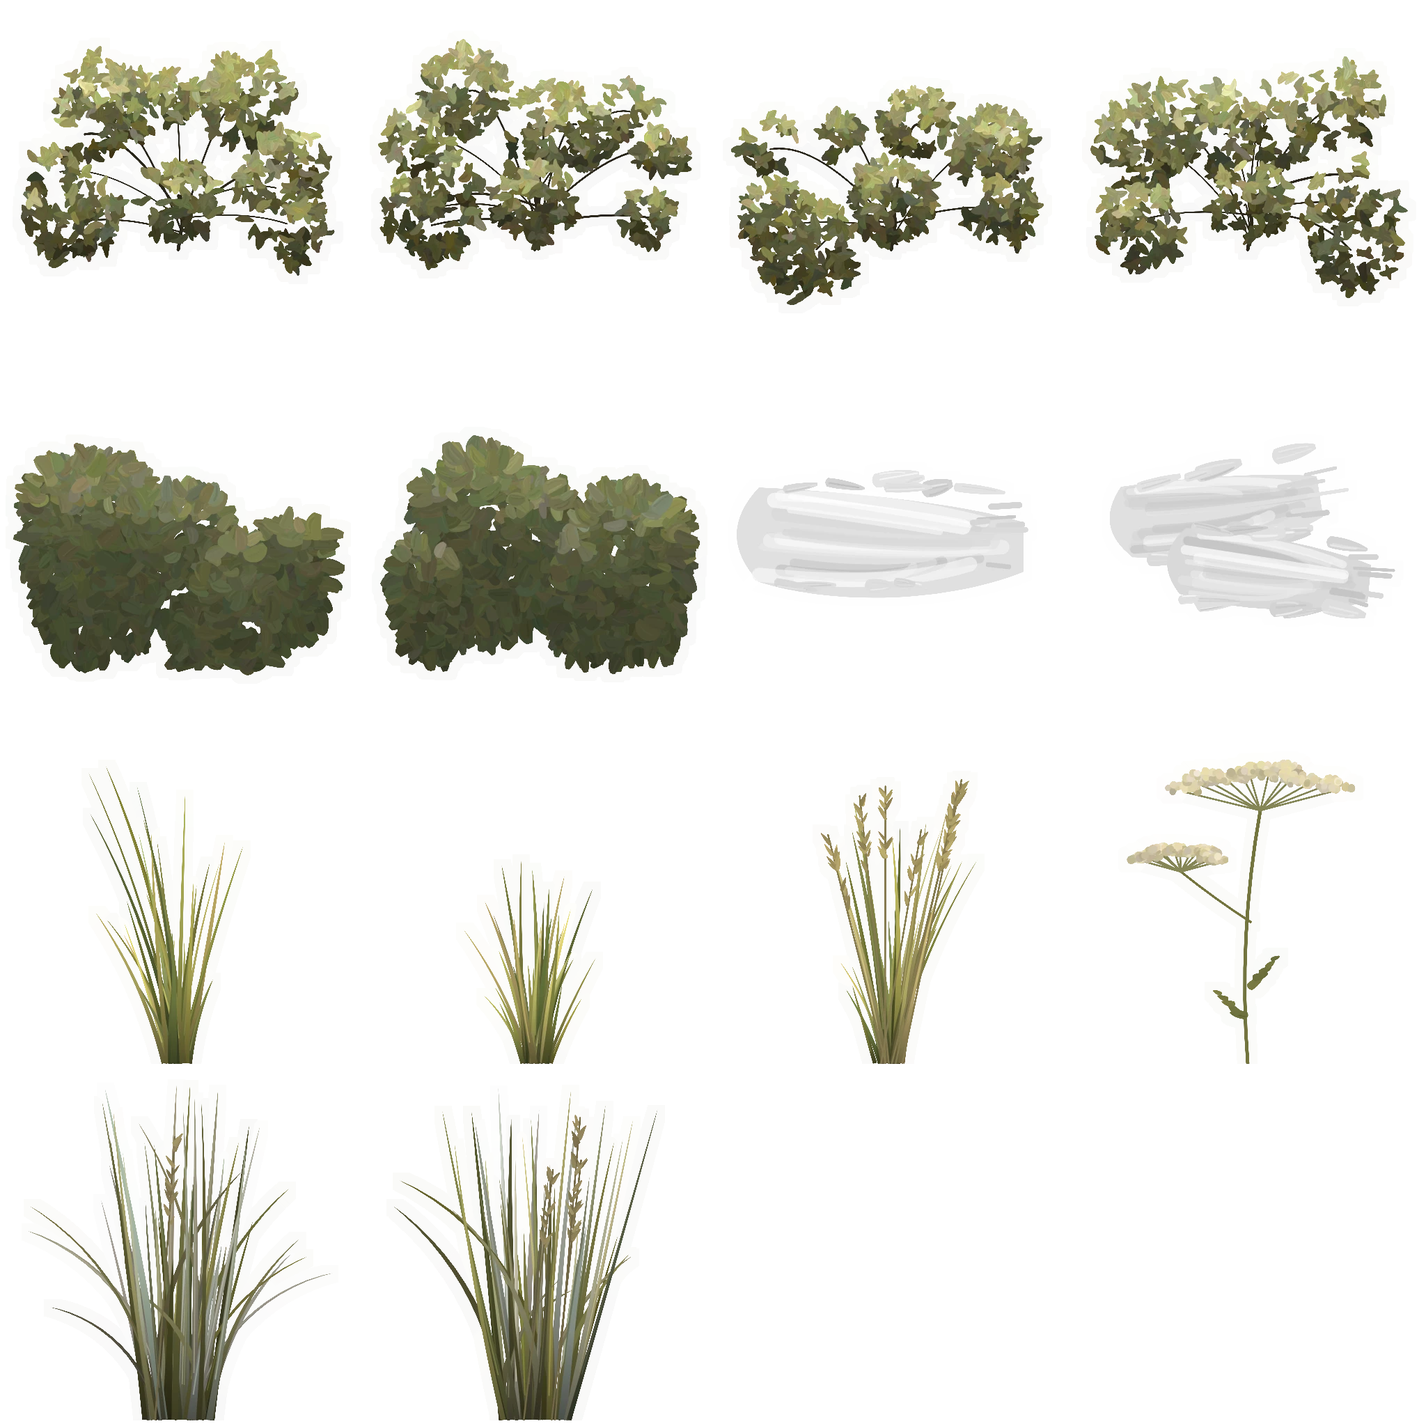
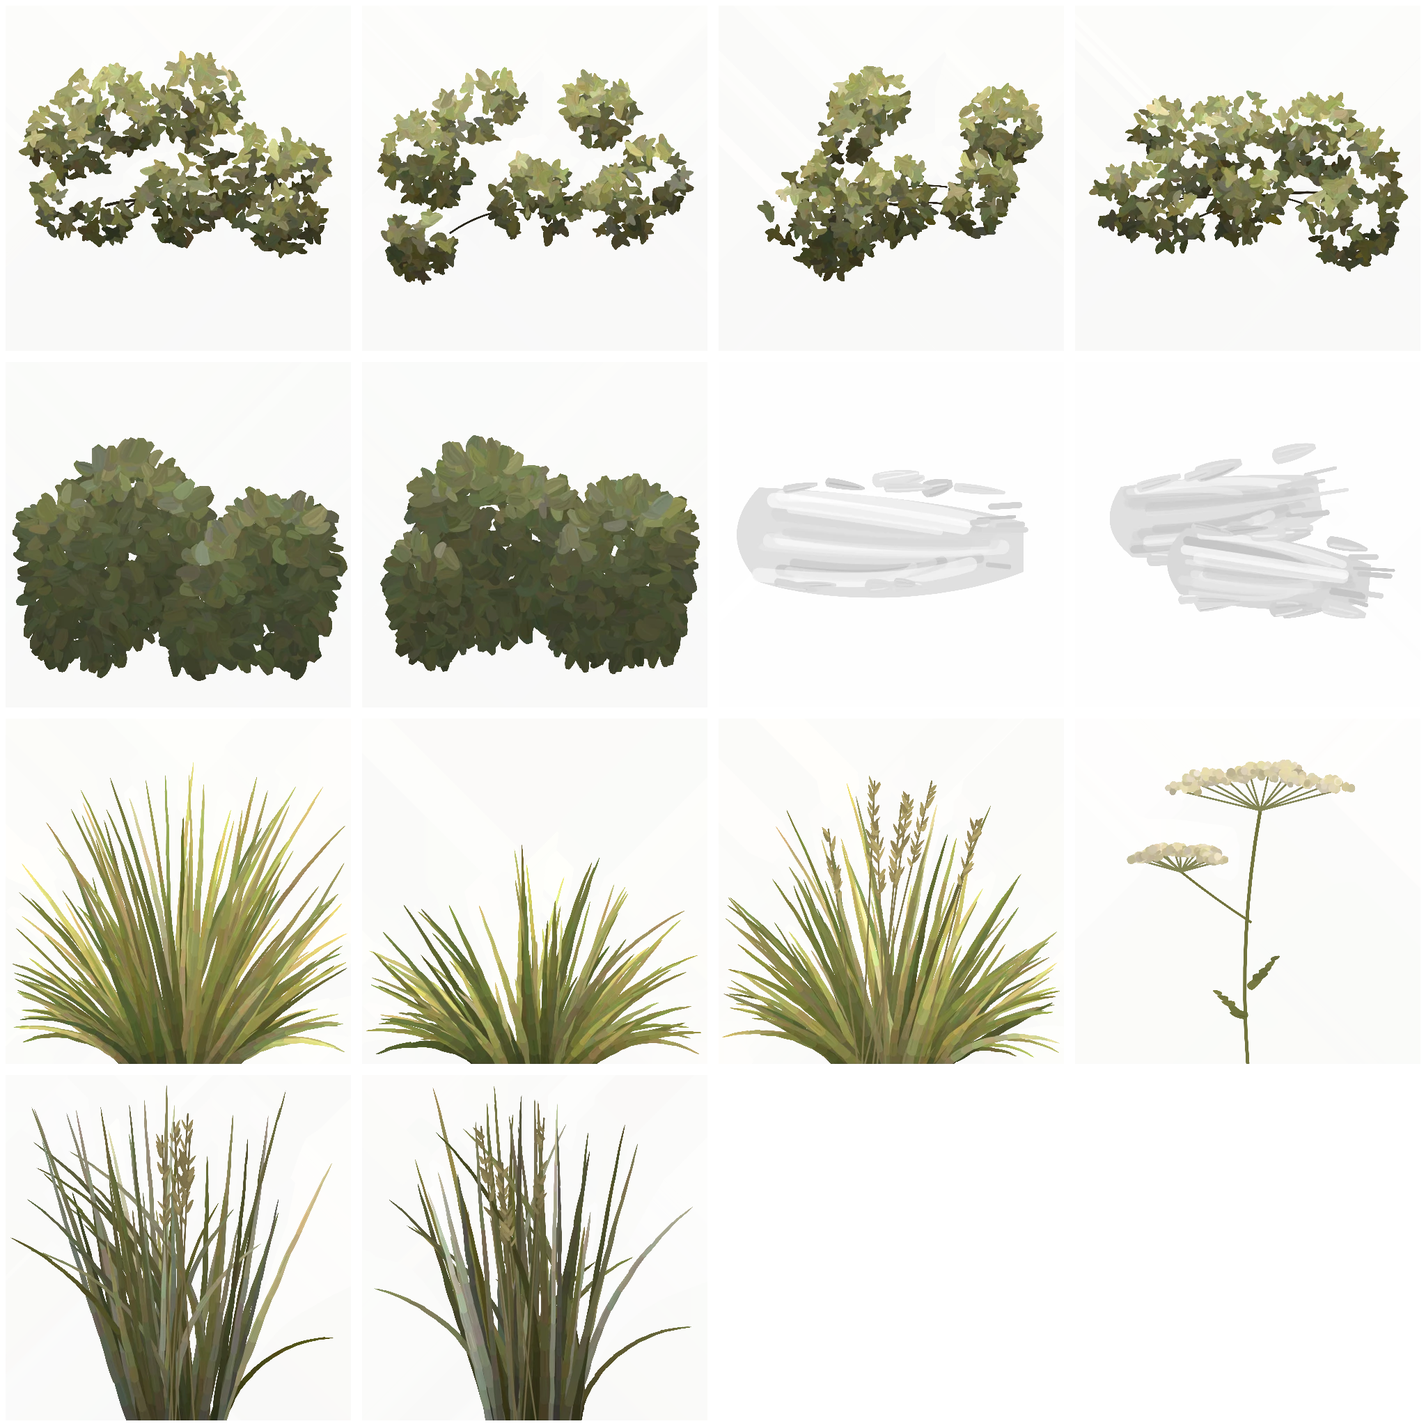
Paint grass and reed blades as brush strokes, and tidy the card atlas
Blades are now overlapping tapered strokes along a spine, with broken
colour and outline; grass tufts use most of their cells. Oak twigs start
inside the spray and stay out of its lit top, with no stub below. Card
colour is carried across each cell's whole transparent interior. The
plates README and the hills draft prompt agree on the hills wrap, the
README's failure wording is split from success, and the contact sheet
takes panel names from the slot table.

diff --git a/scripts/space-painter/painter.js b/scripts/space-painter/painter.js
@@ -238,30 +238,28 @@ const PAINTERS = {
 
 // ── Brush cards: alpha-tested shapes, one per 512 px cell, painted in cell pixels (scaled by `k` if the cell size changes). ──
 
-const MARGIN = 8, FRINGE = 12, FRINGE_ALPHA = 8; // clear border per cell; colour band (px, 8-bit alpha) carried under each edge
+const MARGIN = 8, FRINGE_ALPHA = 8; // clear border per cell; 8-bit alpha of the colour carried under the transparent interior
 
-// A blade from (x, y) rising `lean` radians off upright and turning by `curl` radians over its length, tapering to a point,
-// darker at its foot. Returns false (drawing nothing) if any part would leave the cell's clear margin.
-function blade(g, x, y, {len, lean, curl = 0, width, color, rib = false, steps = 14}, n) {
-  const left = [], right = []; let a = lean, px = x, py = y;
-  for (let q = 0; q <= steps; q++) {
-    const w = width / 2 * (1 - q / steps) ** .7, nx = Math.cos(a), ny = Math.sin(a);
-    left.push([px - nx * w, py - ny * w]); right.push([px + nx * w, py + ny * w]);
-    px += Math.sin(a) * len / steps; py -= Math.cos(a) * len / steps; a += curl / steps;
-  }
-  const pts = [...left, ...right.reverse()];
-  if (pts.some(([u, v]) => u < MARGIN + 4 || u > n - MARGIN - 4 || v < MARGIN + 4 || v > n - MARGIN)) return false;
-  const tip = left[steps], grad = g.createLinearGradient(x, y, tip[0], tip[1]);
-  grad.addColorStop(0, css(mul(color, .58))); grad.addColorStop(.45, css(color)); grad.addColorStop(1, css(mul(color, 1.16)));
-  g.beginPath(); pts.forEach(([u, v], q) => q ? g.lineTo(u, v) : g.moveTo(u, v)); g.closePath(); g.fillStyle = grad; g.fill();
-  if (rib) { // a lighter stroke down one side, where the blade catches the light
-    g.strokeStyle = css(mul(color, 1.25), .7); g.lineWidth = Math.max(1, width * .18); g.beginPath();
-    left.slice(2, steps - 1).forEach(([u, v], q) => { const [u2, v2] = right[right.length - 3 - q]; q ? g.lineTo(u * .65 + u2 * .35, v * .65 + v2 * .35) : g.moveTo(u * .65 + u2 * .35, v * .65 + v2 * .35); }); g.stroke();
+// A blade from (x, y) rising `lean` radians off upright and turning by `curl` radians over its length, tapering to a point. It is
+// laid as overlapping tapered brush strokes along its spine, darker at the foot and lighter toward the tip, each stroke a little
+// off in colour, so the outline breaks where one stroke hands over to the next. Returns false (drawing nothing) if any part would
+// leave the cell's clear margin.
+function blade(g, x, y, {len, lean, curl = 0, width, color, rib = false}, n, r) {
+  const steps = Math.max(4, Math.min(12, Math.round(len / (width * 1.6)))), spine = []; let a = lean, px = x, py = y;
+  for (let q = 0; q <= steps; q++) { spine.push([px, py, a]); px += Math.sin(a) * len / steps; py -= Math.cos(a) * len / steps; a += curl / steps; }
+  const half = q => width / 2 * (1 - q / steps) ** .7 + 1;
+  if (spine.some(([u, v], q) => u - half(q) < MARGIN + 4 || u + half(q) > n - MARGIN - 4 || v - half(q) < MARGIN + 4 || v > n - MARGIN)) return false;
+  const seg = len / steps;
+  for (let q = 0; q < steps; q++) {
+    const [u0, v0, a0] = spine[q], [u1, v1] = spine[q + 1], t = (q + .5) / steps, last = q === steps - 1;
+    const shade = .62 + .56 * t ** .8, w = width * (1 - t) ** .7 * (1.05 + r() * .2) + 1.5;
+    dab(g, (u0 + u1) / 2, (v0 + v1) / 2, {angle: a0 - Math.PI / 2 + (r() - .5) * .06, len: seg * (last ? 1.15 : 1.7), width: Math.max(2, w), color: jitter(r, mul(color, shade), .12),
+      alpha: 1, bristles: 3, bend: (r() - .5) * .25, taper: last ? 1 : .55, ridge: rib && t > .3 ? .45 : 0}, r);
   }
   return true;
 }
 // Keeps trying a blade, a little shorter each time, until it fits inside the cell.
-function fitBlade(g, x, y, s, n) { for (let t = 0; t < 12 && !blade(g, x, y, s, n); t++) s = {...s, len: s.len * .88}; }
+function fitBlade(g, x, y, s, n, r) { for (let t = 0; t < 12 && !blade(g, x, y, s, n, r); t++) s = {...s, len: s.len * .88}; }
 
 // Leaf masses (oak and woods): strokes scattered inside a union of lobes, minus small holes, lit from above both across the whole
 // clump and on each lobe. With `rosette`, two to five leaves radiate unevenly from each point like the oak's sprays; otherwise each
@@ -295,30 +293,34 @@ function leafMass(g, r, n, {lobes, holes = [], floor = n, count, leaf, rosette, 
 function oakLobes(r, n) {
   const k = n / 512, lobes = [], count = 7 + (r() * 4 | 0), lean = (r() - .5) * .7;
   for (let q = 0; q < count; q++) {
-    const rad = (32 + r() * 40) * k, ang = -Math.PI / 2 + lean + (q / (count - 1) - .5) * 3.8 + (r() - .5) * .5, dist = (100 + r() * 100) * k;
+    const rad = (32 + r() * 40) * k, ang = -Math.PI / 2 + lean + (q / (count - 1) - .5) * 3.8 + (r() - .5) * .5, dist = (80 + r() * 95) * k;
     lobes.push({x: clamp(n / 2 + Math.cos(ang) * dist * 1.25, rad + 40 * k, n - rad - 40 * k), y: clamp(n * .55 + Math.sin(ang) * dist * .85, rad + 36 * k, n - rad - 44 * k), rad});
   }
   lobes.push({x: n / 2, y: n * .56, rad: 58 * k}); // the heart of the spray, so no lobe floats free
   return lobes;
 }
 
-// Removes the soft part of every edge (cards are alpha-tested near 0.5), then carries edge colour outward under a faint alpha so
-// texture filtering never pulls in black, and keeps the cell's outer MARGIN fully clear.
+// Removes the soft part of every edge (cards are alpha-tested near 0.5), then carries edge colour outward across the whole cell
+// interior under a faint alpha (below the cut, but enough for the colour to survive encoding), so texture filtering and every mip
+// level see the shape's own colour instead of black. The cell's outer MARGIN stays fully clear.
 function finishCard(g, n) {
-  const img = g.getImageData(0, 0, n, n), d = img.data, solid = new Uint8Array(n * n);
-  for (let p = 0; p < n * n; p++) { const a = d[p * 4 + 3] / 255; d[p * 4 + 3] = clamp(((a - .5) * 3.2 + .5) * 255); solid[p] = d[p * 4 + 3] >= 128; }
-  for (let pass = 0, next = solid.slice(); pass < FRINGE; pass++, solid.set(next)) {
-    for (let y = MARGIN; y < n - MARGIN; y++) for (let x = MARGIN; x < n - MARGIN; x++) {
-      const p = y * n + x; if (solid[p]) continue;
-      let s0 = 0, s1 = 0, s2 = 0, m = 0;
-      for (const o of [-1, 1, -n, n, -n - 1, -n + 1, n - 1, n + 1]) if (solid[p + o]) { s0 += d[(p + o) * 4]; s1 += d[(p + o) * 4 + 1]; s2 += d[(p + o) * 4 + 2]; m++; }
-      if (!m) continue;
-      d[p * 4] = s0 / m; d[p * 4 + 1] = s1 / m; d[p * 4 + 2] = s2 / m; d[p * 4 + 3] = Math.max(d[p * 4 + 3], FRINGE_ALPHA); next[p] = 1;
-    }
+  const img = g.getImageData(0, 0, n, n), d = img.data, filled = new Uint8Array(n * n), inside = (x, y) => x >= MARGIN && y >= MARGIN && x < n - MARGIN && y < n - MARGIN;
+  let front = [];
+  for (let p = 0; p < n * n; p++) { const a = d[p * 4 + 3] / 255; d[p * 4 + 3] = clamp(((a - .5) * 3.2 + .5) * 255); if (d[p * 4 + 3] >= 128) { filled[p] = 1; front.push(p); } }
+  while (front.length) { // grow ring by ring; each new pixel takes the mean colour of its already-coloured neighbours
+    const ring = [];
+    for (const p of front) for (const [dx, dy] of NEIGHBOURS) { const x = p % n + dx, y = (p / n | 0) + dy, q = y * n + x;
+      if (inside(x, y) && !filled[q]) { filled[q] = 2; ring.push(q); } }
+    for (const q of ring) { let s0 = 0, s1 = 0, s2 = 0, m = 0; const x = q % n, y = q / n | 0;
+      for (const [dx, dy] of NEIGHBOURS) { const o = (y + dy) * n + x + dx; if (filled[o] === 1) { s0 += d[o * 4]; s1 += d[o * 4 + 1]; s2 += d[o * 4 + 2]; m++; } }
+      d[q * 4] = s0 / m; d[q * 4 + 1] = s1 / m; d[q * 4 + 2] = s2 / m; d[q * 4 + 3] = Math.max(d[q * 4 + 3], FRINGE_ALPHA); }
+    for (const q of ring) filled[q] = 1;
+    front = ring;
   }
-  for (let y = 0; y < n; y++) for (let x = 0; x < n; x++) if (x < MARGIN || y < MARGIN || x >= n - MARGIN || y >= n - MARGIN) d.fill(0, (y * n + x) * 4, (y * n + x) * 4 + 4);
+  for (let y = 0; y < n; y++) for (let x = 0; x < n; x++) if (!inside(x, y)) d.fill(0, (y * n + x) * 4, (y * n + x) * 4 + 4);
   return img;
 }
+const NEIGHBOURS = [[-1, 0], [1, 0], [0, -1], [0, 1], [-1, -1], [1, -1], [-1, 1], [1, 1]];
 
 // What each kind of cell holds. `n` is the cell size, `i` the cell's place among its kind. Grass, flowers and reeds stand on the
 // cell's bottom edge (just inside the margin) at its centre.
@@ -327,11 +329,14 @@ const CARDS = {
   oak(g, r, n, i, s) {
     const lobes = oakLobes(r, n), k = n / 512, holes = [];
     for (let q = 0; q < 9 + (r() * 5 | 0); q++) { const l = lobes[r() * lobes.length | 0]; holes.push([l.x + (r() - .5) * l.rad * 1.4, l.y + (r() - .5) * l.rad * 1.4, (8 + r() * 13) * k]); }
-    g.lineCap = 'round'; g.strokeStyle = css(mul(s.bark.mean, .6)); // a stem from the limb, twigs branching off it into each lobe
-    const stem = t => [n / 2 + Math.sin(t * 3) * 6 * k, n * (.7 - .15 * t)];
-    g.lineWidth = 5 * k; g.beginPath(); g.moveTo(...stem(0)); g.lineTo(...stem(.5)); g.lineTo(...stem(1)); g.stroke();
-    for (const l of lobes) { const [sx, sy] = stem(.2 + r() * .8), ex = l.x + (r() - .5) * l.rad * .4, ey = l.y + (r() - .5) * l.rad * .3;
-      g.lineWidth = (1.8 + r() * 1.6) * k; g.beginPath(); g.moveTo(sx, sy); g.quadraticCurveTo(sx * .4 + ex * .6, Math.min(sy, ey) - 12 * k, ex, ey); g.stroke(); }
+    // Twigs, seen only in the shadowed lower half through the gaps: each starts somewhere in the heart of the spray (never below the
+    // mass) and stops short inside a lower or side lobe; the lit top has none.
+    const heart = lobes[lobes.length - 1]; g.lineCap = 'round'; g.strokeStyle = css(mul(s.bark.mean, .6));
+    for (const l of lobes.slice(0, -1)) {
+      if (l.y < heart.y - heart.rad * .4) continue;
+      const sx = heart.x + (r() - .5) * heart.rad * 1.2, sy = heart.y + (r() - .2) * heart.rad * .5, ex = sx + (l.x - sx) * (.6 + r() * .25), ey = sy + (l.y - sy) * (.6 + r() * .25);
+      g.lineWidth = (2 + r() * 2) * k; g.beginPath(); g.moveTo(sx, sy); g.quadraticCurveTo((sx + ex) / 2, Math.min(sy, ey) - 8 * k, ex, ey); g.stroke();
+    }
     leafMass(g, r, n, {lobes, holes, count: 440 * k * k, leaf: [10 * k, 19 * k], rosette: true, light: s.leafLight, mid: s.leaf, dark: s.leafDark, contrast: .8, calm: .2, taper: .75});
   },
   // Distant tree masses: broad, flat-bottomed domes in a narrow sage-to-moss range, blunt strokes, softly lit tops.
@@ -364,11 +369,11 @@ const CARDS = {
   grass(g, r, n, i, s) {
     const k = n / 512, top = [470, 330, 420][i % 3] * k, foot = n - MARGIN - 1, blades = [150, 120, 130][i % 3];
     for (let q = 0; q < blades; q++) {
-      const spread = (r() - .5) * 2, x = n / 2 + spread * 44 * k, len = top * (.3 + r() * .7) * (1 - .35 * Math.abs(spread)), lean = spread * .95 + (r() - .5) * .45;
+      const spread = (r() - .5) * 2, x = n / 2 + spread * 80 * k, len = top * (.32 + r() * .68) * (1 - .3 * Math.abs(spread)), lean = spread * .92 + (r() - .5) * .45;
       const col = r() < .14 ? mix(s.meadow.pick(), [180, 166, 110], .55) : mul(mix(s.meadow.pick(), [124, 150, 68], .3), .92 + r() * .28);
-      fitBlade(g, x, foot, {len, lean, curl: lean * (.2 + r() * 1.2) + (r() - .5) * .5, width: (5 + r() * 8) * k, color: col, rib: r() < .4}, n);
+      fitBlade(g, x, foot, {len, lean, curl: lean * (.2 + r() * 1.1) + (r() - .5) * .5, width: (6 + r() * 9) * k, color: col, rib: r() < .4}, n, r);
     }
-    if (i % 3 === 2) for (let q = 0; q < 7; q++) seedStalk(g, r, n, n / 2 + (r() - .5) * 50 * k, foot, top * (.8 + r() * .2), (r() - .5) * .5, mix(s.meadow.mean, [190, 172, 118], .6));
+    if (i % 3 === 2) for (let q = 0; q < 7; q++) seedStalk(g, r, n, n / 2 + (r() - .5) * 110 * k, foot, top * (.8 + r() * .2), (r() - .5) * .5, mix(s.meadow.mean, [190, 172, 118], .6));
   },
   // Cow parsley: a thin stem carrying a flat cream umbel of small umbellets, a smaller side umbel, two small leaves low down.
   flower(g, r, n, i, s) {
@@ -394,8 +399,8 @@ const CARDS = {
   reeds(g, r, n, i, s) {
     const k = n / 512, foot = n - MARGIN - 1;
     for (let q = 0; q < 60; q++) {
-      const spread = (r() - .5) * 2, x = n / 2 + spread * 50 * k, len = (220 + r() * 270) * k, lean = spread * .2 + (r() - .5) * .22;
-      fitBlade(g, x, foot, {len, lean, curl: r() < .22 ? (r() < .5 ? -1 : 1) * (.6 + r() * .7) : (r() - .5) * .25, width: (6 + r() * 8) * k, color: mul(s.reeds.pick(), .88 + r() * .3), rib: r() < .5}, n);
+      const spread = (r() - .5) * 2, x = n / 2 + spread * 70 * k, len = (220 + r() * 270) * k, lean = spread * .28 + (r() - .5) * .24;
+      fitBlade(g, x, foot, {len, lean, curl: r() < .22 ? (r() < .5 ? -1 : 1) * (.6 + r() * .7) : (r() - .5) * .25, width: (7 + r() * 8) * k, color: mul(s.reeds.pick(), .88 + r() * .3), rib: r() < .5}, n, r);
     }
     for (let q = 0; q < 4 + i * 2; q++) seedStalk(g, r, n, n / 2 + (r() - .5) * 70 * k, foot, (360 + r() * 120) * k, (r() - .5) * .3, mix(s.reeds.mean, [168, 146, 98], .55));
   },
@@ -417,7 +422,7 @@ function paintCards(paint, r) {
     leafDark: S('foliage', c => leafy(c) && lum(c) > 35 && lum(c) <= 85), bark: S('bark'),
     woods: S('woods', c => leafy(c) && c[1] >= c[0] && lum(c) > 70 && lum(c) < 130), woodsLight: S('woods', c => leafy(c) && c[1] >= c[0] && lum(c) >= 115 && lum(c) < 170),
     woodsDark: S('woods', c => leafy(c) && c[1] >= c[0] && lum(c) > 45 && lum(c) <= 85), meadow: S('meadow', greenish), cream: S('meadow', c => lum(c) > 190),
-    reeds: S('reeds', c => c[1] >= c[2] * 1.05 && c[1] >= c[0] * .95 && lum(c) > 60 && lum(c) < 165)};
+    reeds: S('reeds', c => c[1] >= c[2] * 1.15 && c[1] >= c[0] * .95 && lum(c) > 60 && lum(c) < 165)};
   for (const [kind, list] of Object.entries(cells)) list.forEach((index, i) => {
     const c = canvas(n), g = c.getContext('2d', {willReadFrequently: true});
     CARDS[kind](g, rng(r() * 4294967296 | 0), n, i, s);

diff --git a/ARTWORK.md b/ARTWORK.md
@@ -124,15 +124,15 @@ Colours are sampled from these native-pixel regions of the day painting, recorde
 
 Each sample is filtered by colour so that sky, water or stone caught in a region is not used as foliage or grass.
 
-The card atlas holds four lobed oak sprays, two flat-bottomed woodland masses, two neutral light dabs tinted in the scene, three grass tufts, one cow-parsley umbel, and two reed clusters. Each shape keeps eight clear pixels inside its cell. Grass, flowers and reeds stand at the bottom centre of their cells. Edges are hardened around alpha 0.5. Edge colour is carried twelve pixels outward under alpha 8/255, below the cut-off, so filtering and mipmaps never pull in black. The door is a weathered dark green ledged plank door in a painted frame. The window is a dark glazed casement with pale painted bars; nothing is lit inside it.
+The card atlas holds four lobed oak sprays, two flat-bottomed woodland masses, two neutral light dabs tinted in the scene, three grass tufts, one cow-parsley umbel, and two reed clusters. Each shape keeps eight clear pixels inside its cell. Grass, flowers and reeds stand at the bottom centre of their cells. Grass and reed blades are laid as overlapping tapered strokes along each blade. Edges are hardened around alpha 0.5. Edge colour is carried across the whole transparent interior of each cell under alpha 8/255, below the cut-off, so filtering and mipmaps never pull in black. Alpha 0 cannot carry colour through the browser's WebP encoder. The door is a weathered dark green ledged plank door in a painted frame. The window is a dark glazed casement with pale painted bars; nothing is lit inside it.
 
 Re-export with `node scripts/prepare-space-assets.mjs`. Use `--only slot,slot` to export only the named slots. The command also writes the contact sheet `docs/space-validation/art-sheet.png`, which shows each surface tiled 2 × 2, the panels, and the atlas cut at 0.5 over mid-grey and sky blue. A PNG plate under `artwork/lakeside-space-v1/plates/<slot>.png` replaces that slot's painting when it has the slot's dimensions and alpha convention. Plates are never overwritten; `artwork/lakeside-space-v1/plates/README.md` gives the sizes. No slot uses a plate in this version.
 
-Code is weakest in four places, where a generated plate would help most. The draft prompts below have not been run. The oak, woods and ground-cover plates all fill cells of the one `cards` slot, so a generated sheet would be cut into those cells over the painted atlas before export.
+Code is weakest in four places, where a generated plate would help most. The spec describes the far-hills plate as a 360° band with a sky edge, but the `hills` slot is a 512 × 512 texture that tiles both ways over hill shapes the scene builds, so its draft prompt asks for slope brushwork only. The draft prompts below have not been run. The oak, woods and ground-cover plates all fill cells of the one `cards` slot, so a generated sheet would be cut into those cells over the painted atlas before export.
 
 ### Far hills and mist draft prompt
 
-Use case: stylized-concept. Asset type: opaque seamless texture, 512 x 512, for the far hills that ring a walkable lakeside yard; it repeats horizontally around a 360-degree band. Layered misty fells of an English lake valley in late spring: three or four overlapping ridges, nearest ridge muted moss and sage green, farther ridges stepping back into pale blue-gray haze, low soft mist lying in the valleys between them, a soft painted sky edge along the top in pale blue-gray and cream. Authentic fine-art oil on linen, perceptible confident brushwork, broken colour, lost edges, atmospheric depth, matching the stable day painting: palette moss and sage greens, silvery blue haze, cream sky, no oversaturation. Left and right edges must join seamlessly. No trees in silhouette, no buildings, no lake, no sun, no birds, no people, no text, no border.
+Use case: stylized-concept. Asset type: opaque texture, 512 x 512, seamless in both directions, laid over the far hills that ring a walkable lakeside yard. The scene builds the layered hill shapes and their sky edge itself; this texture is only the paint on their slopes, so it must contain no horizon, ridge line or sky. Hazy distant fell-side brushwork of an English lake valley in late spring: soft slanting strokes of muted moss and sage green broken with pale blue-gray haze and faint drifts of mist, very low contrast, as seen from miles away. Authentic fine-art oil on linen, perceptible confident brushwork, broken colour, lost edges, matching the stable day painting: palette moss and sage greens, silvery blue haze, no oversaturation. All four edges must join seamlessly. No trees, buildings, lake, sun, birds, people, text or border.
 
 ### Oak leaf clumps draft prompt
 

diff --git a/artwork/lakeside-space-v1/plates/README.md b/artwork/lakeside-space-v1/plates/README.md
@@ -5,12 +5,12 @@ A plate is a finished picture that takes the place of a code-painted slot in `pu
 | Slot | File here | Size (px) | Alpha |
 | --- | --- | --- | --- |
 | `meadow`, `earth`, `shore`, `stone`, `slate`, `bark`, `water` | `<slot>.png` | 1024 × 1024 | opaque, tiles seamlessly both ways |
-| `drystone`, `hills` | `<slot>.png` | 512 × 512 | opaque, tiles seamlessly both ways |
+| `drystone`, `hills` | `<slot>.png` | 512 × 512 | opaque, tiles seamlessly both ways (hills is surface brushwork for the hill shapes, which the scene builds; it has no sky edge) |
 | `door` | `door.png` | 256 × 512 | opaque |
 | `window` | `window.png` | 256 × 256 | opaque |
 | `cards` | `cards.png` | 2048 × 2048 | straight (unpremultiplied) alpha; must contain transparent pixels |
 
-The `cards` plate keeps the atlas layout in `shared/lakeside-space-art.js`: 4 × 4 cells of 512 px, cell 0 at the top left, row-major. Cells 0–3 oak clumps, 4–5 woods, 6–7 neutral light dabs (tinted in the scene), 8–10 grass tufts, 11 cow parsley, 12–13 reeds. Keep at least 8 clear pixels around every shape inside its cell. Grass, flower and reed cells stand on the cell's bottom edge, their foot at the bottom centre. Cards are drawn with an alpha cut-off at 0.5, so give shapes firm edges and carry their colour a few pixels out under the transparent edge. To replace only some cells, start from the exported `cards.webp` and paint over those cells.
+The `cards` plate keeps the atlas layout in `shared/lakeside-space-art.js`: 4 × 4 cells of 512 px, cell 0 at the top left, row-major. Cells 0–3 oak clumps, 4–5 woods, 6–7 neutral light dabs (tinted in the scene), 8–10 grass tufts, 11 cow parsley, 12–13 reeds. Keep at least 8 clear pixels around every shape inside its cell. Grass, flower and reed cells stand on the cell's bottom edge, their foot at the bottom centre. Cards are drawn with an alpha cut-off at 0.5, so give shapes firm edges and carry their colour out under the transparent area (at a small non-zero alpha) so filtering never pulls in black. To replace only some cells, start from the exported `cards.webp` and paint over those cells.
 
 Export the slot:
 
@@ -18,4 +18,8 @@ Export the slot:
 node scripts/prepare-space-assets.mjs --only cards
 ```
 
-The command fails, naming the slot and the size it wants, if a plate has the wrong dimensions or (for `cards`) no transparent pixel. `public/assets/lakeside-space-v1/export.json` then records `"source": "plate"` for that slot. Remove the plate and run the same command to go back to the painted version.
+When the plate is accepted, `public/assets/lakeside-space-v1/export.json` records `"source": "plate"` for that slot.
+
+If the plate has the wrong dimensions, or (for `cards`) no transparent pixel, the command exits non-zero. Its message names the slot and the size it wants, for example `cards: plate is 1024×1024, want 2048×2048`.
+
+Remove the plate and run the same command to go back to the painted version.
